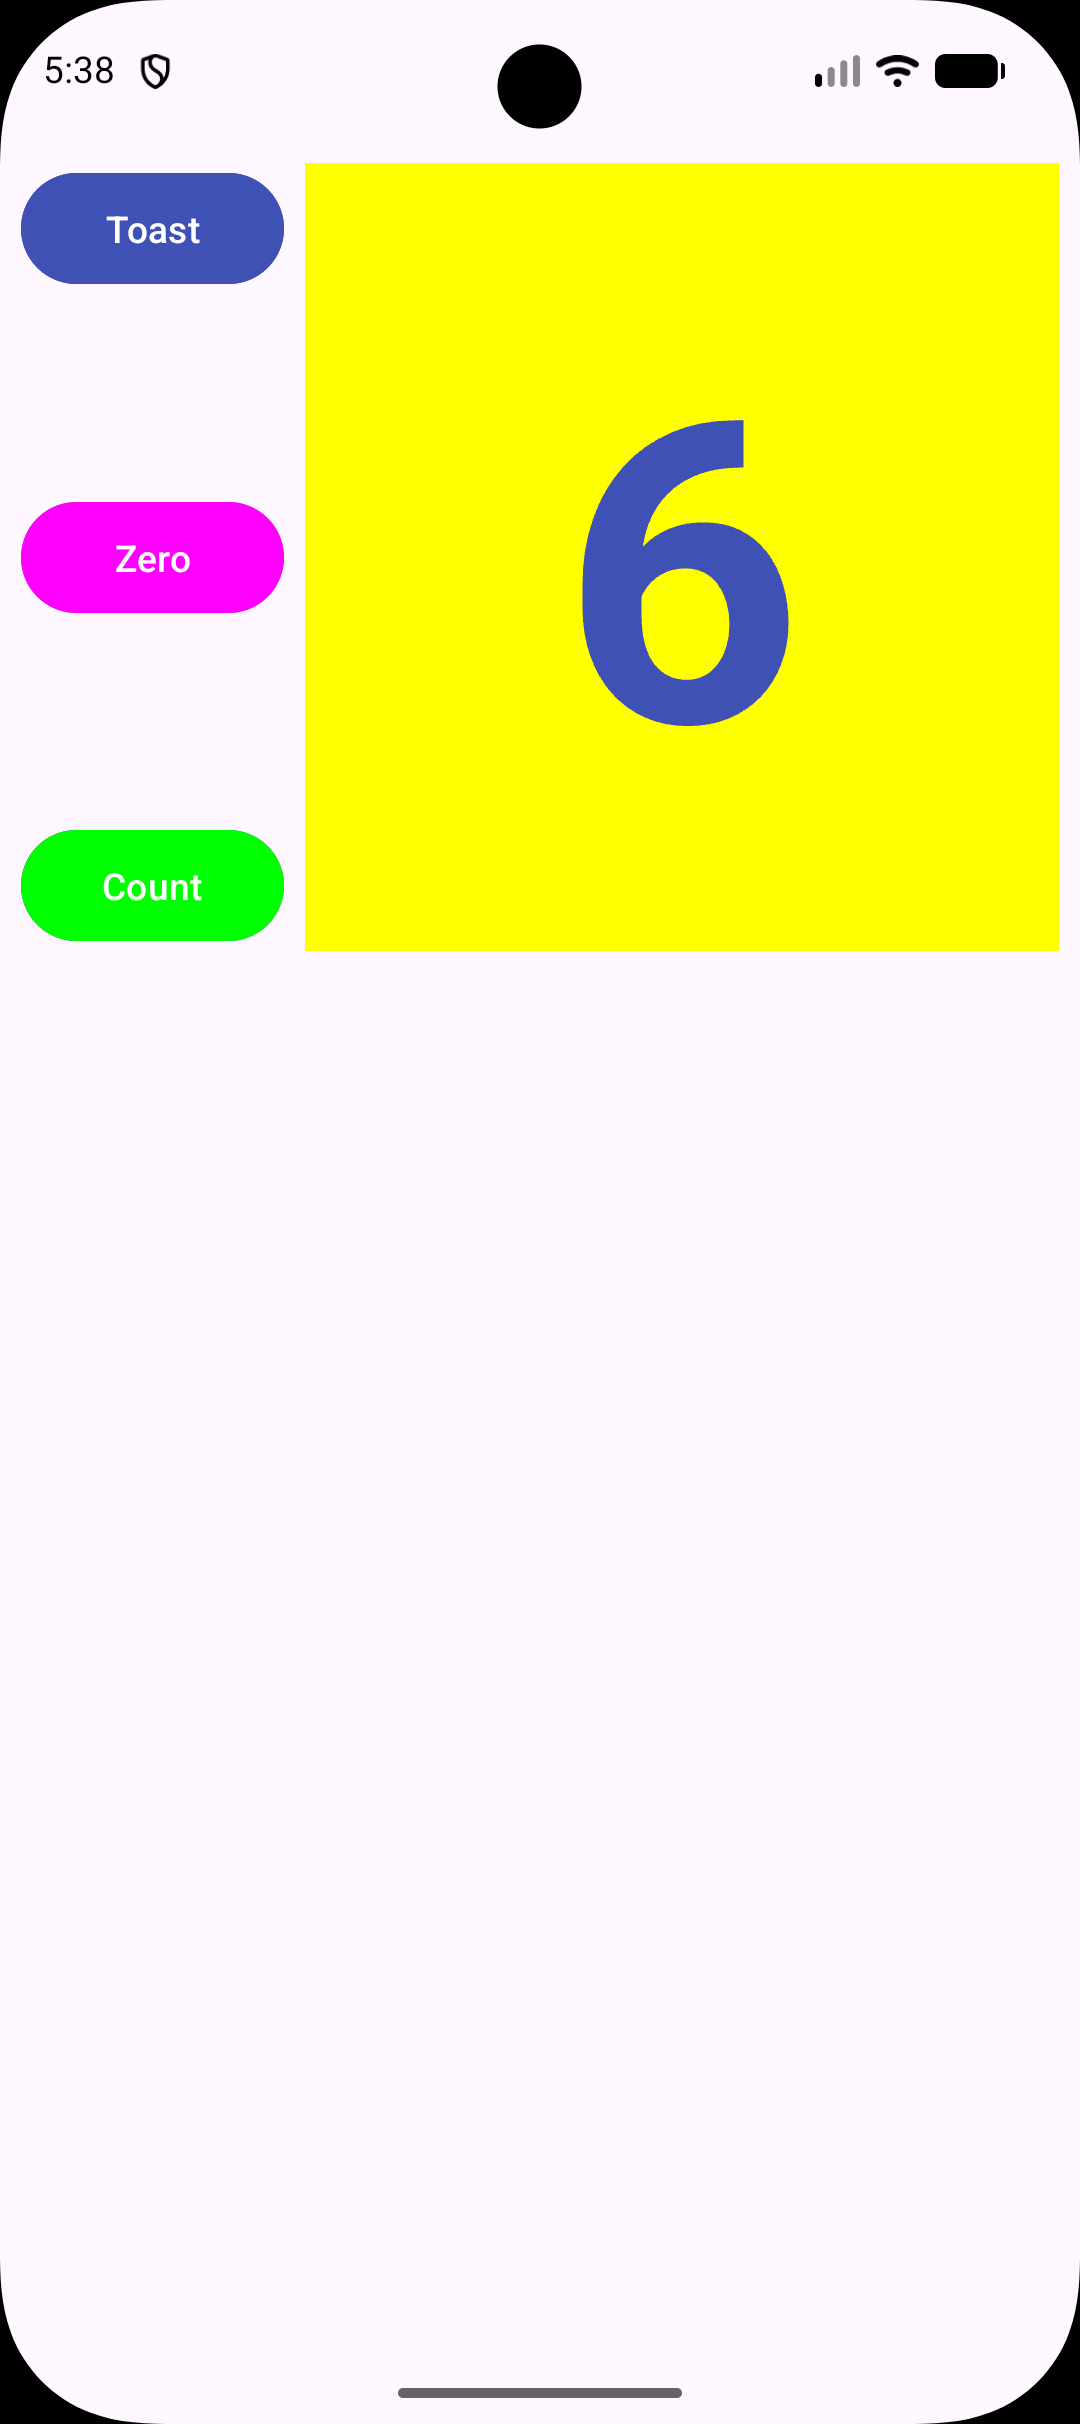
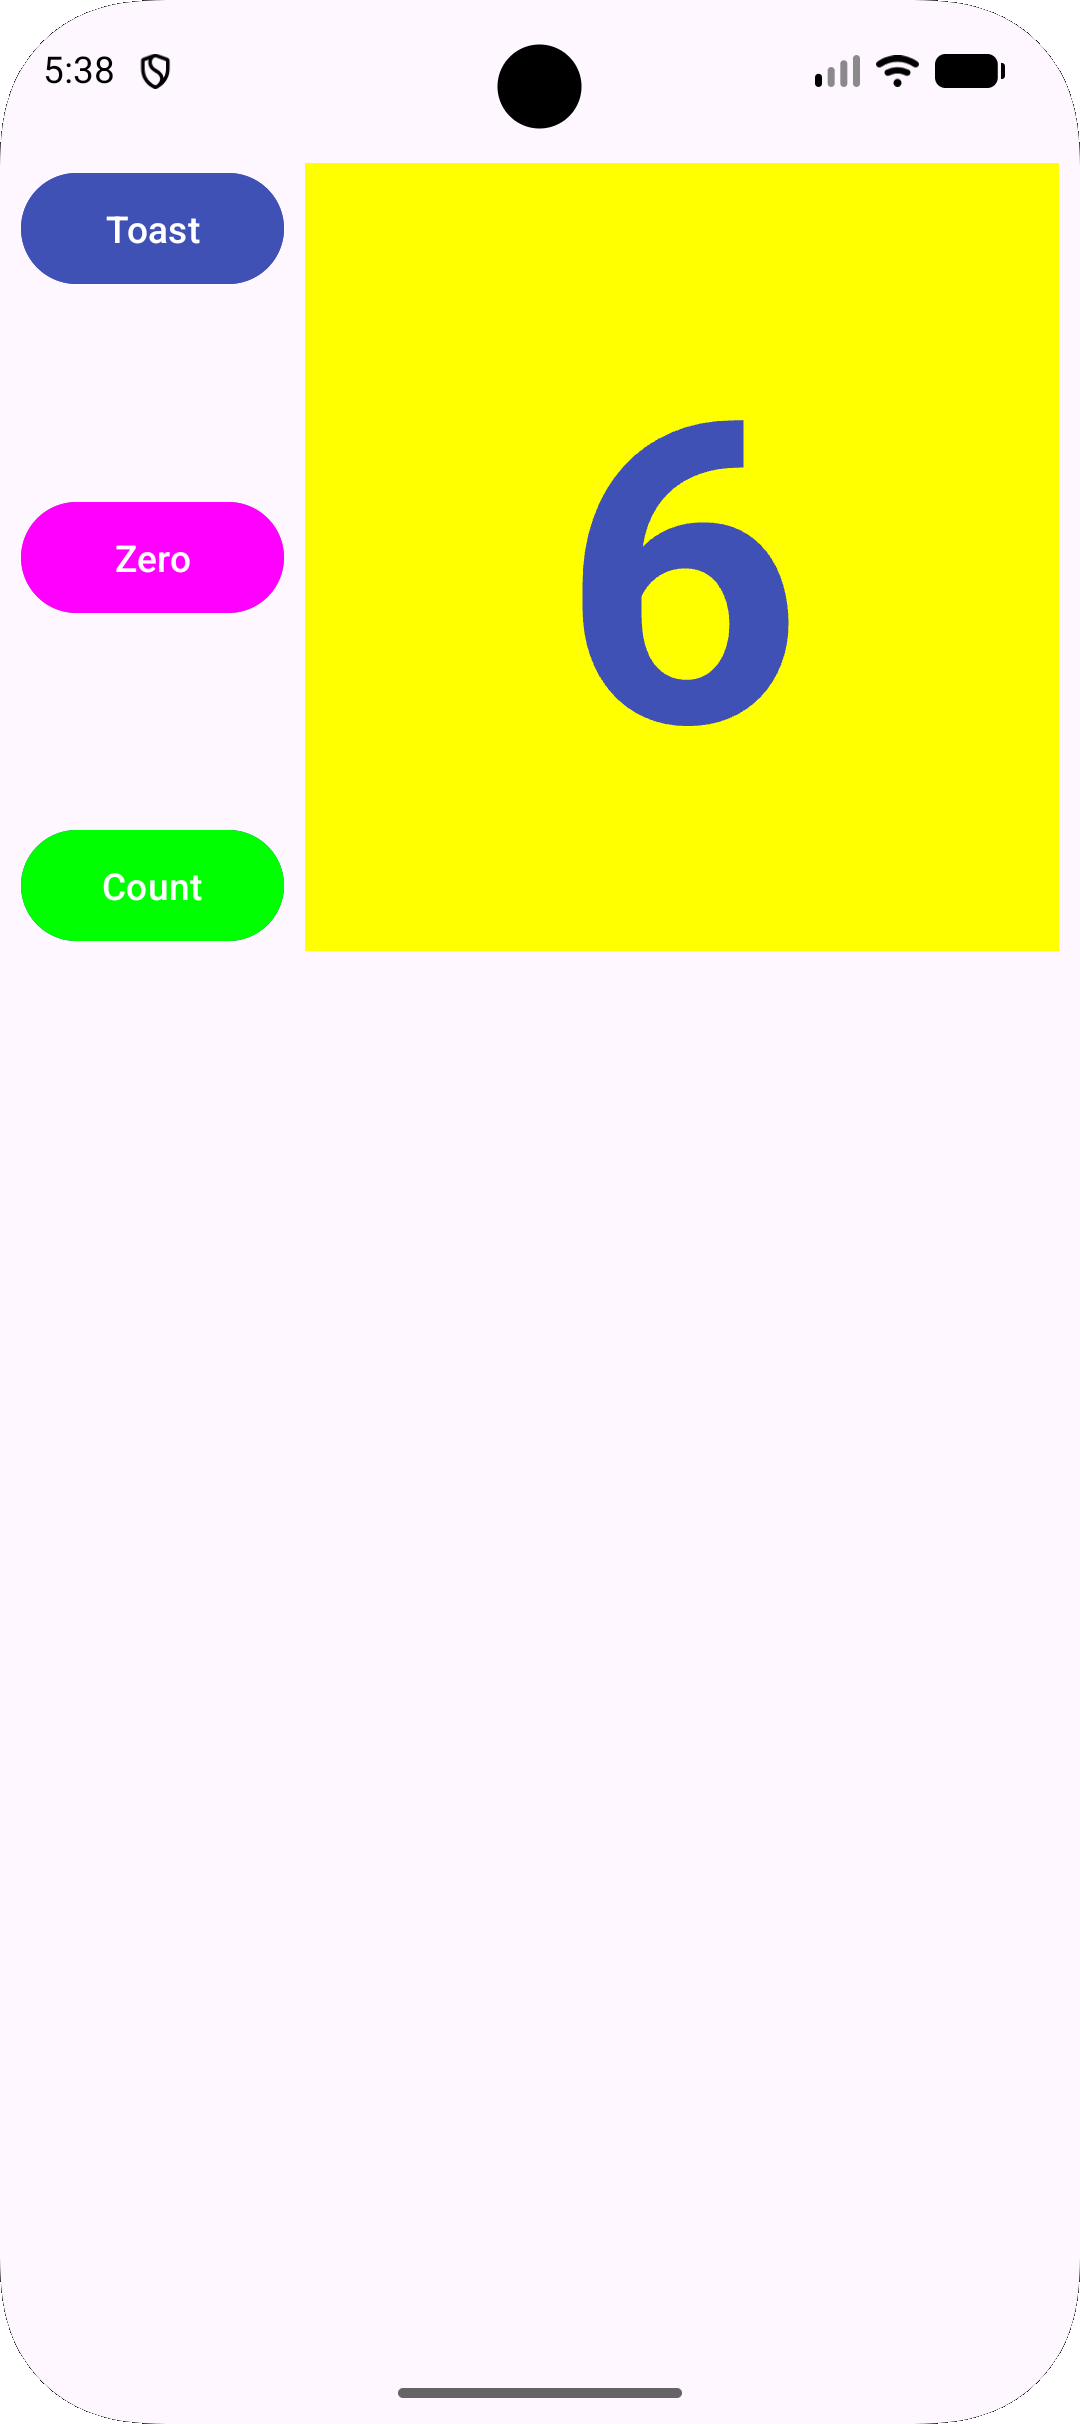
Lepša postavitev posnetkov v README

diff --git a/README.md b/README.md
@@ -13,4 +13,12 @@ Aplikacija s števcem, postavljena s ConstraintLayout
 
 ## Posnetki zaslona
 
-<img src="screenshots/pokoncno.png" height="400"> <img src="screenshots/count.png" height="400"> <img src="screenshots/lezece.png" height="400">
+<p align="center">
+  <img src="screenshots/pokoncno.png" height="450">
+  &nbsp;&nbsp;&nbsp;
+  <img src="screenshots/count.png" height="450">
+</p>
+
+<p align="center">
+  <img src="screenshots/lezece.png" width="600">
+</p>
